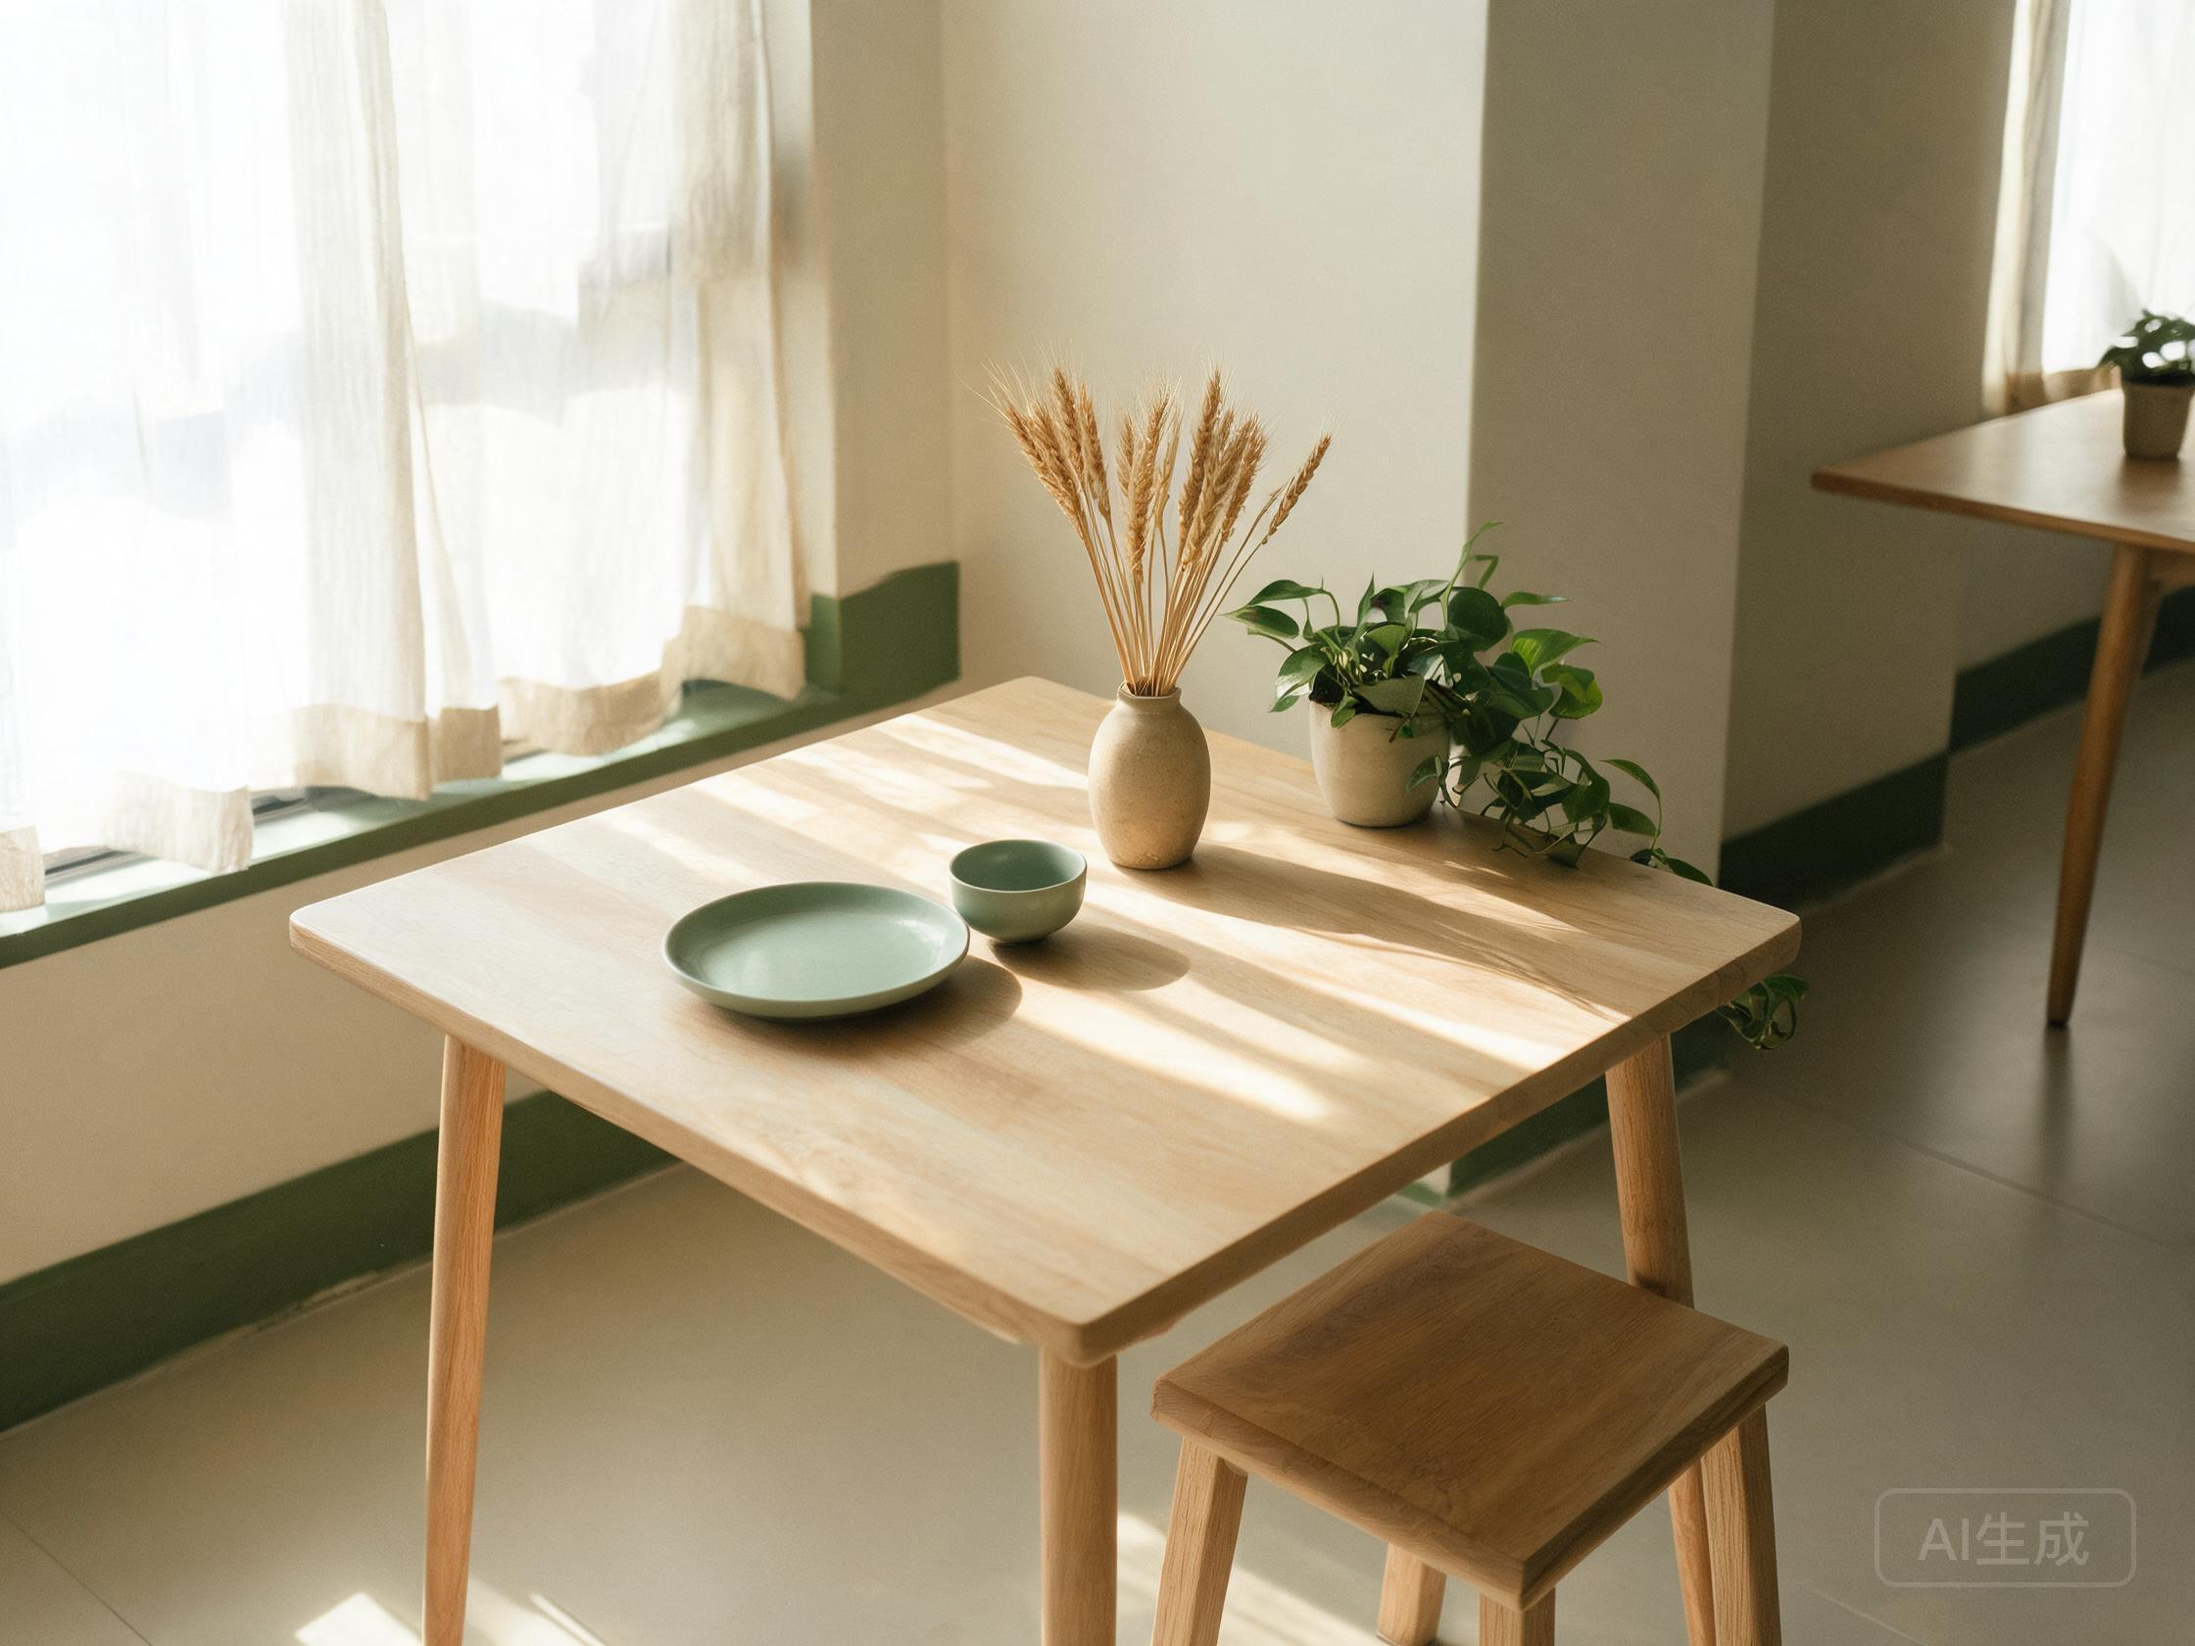
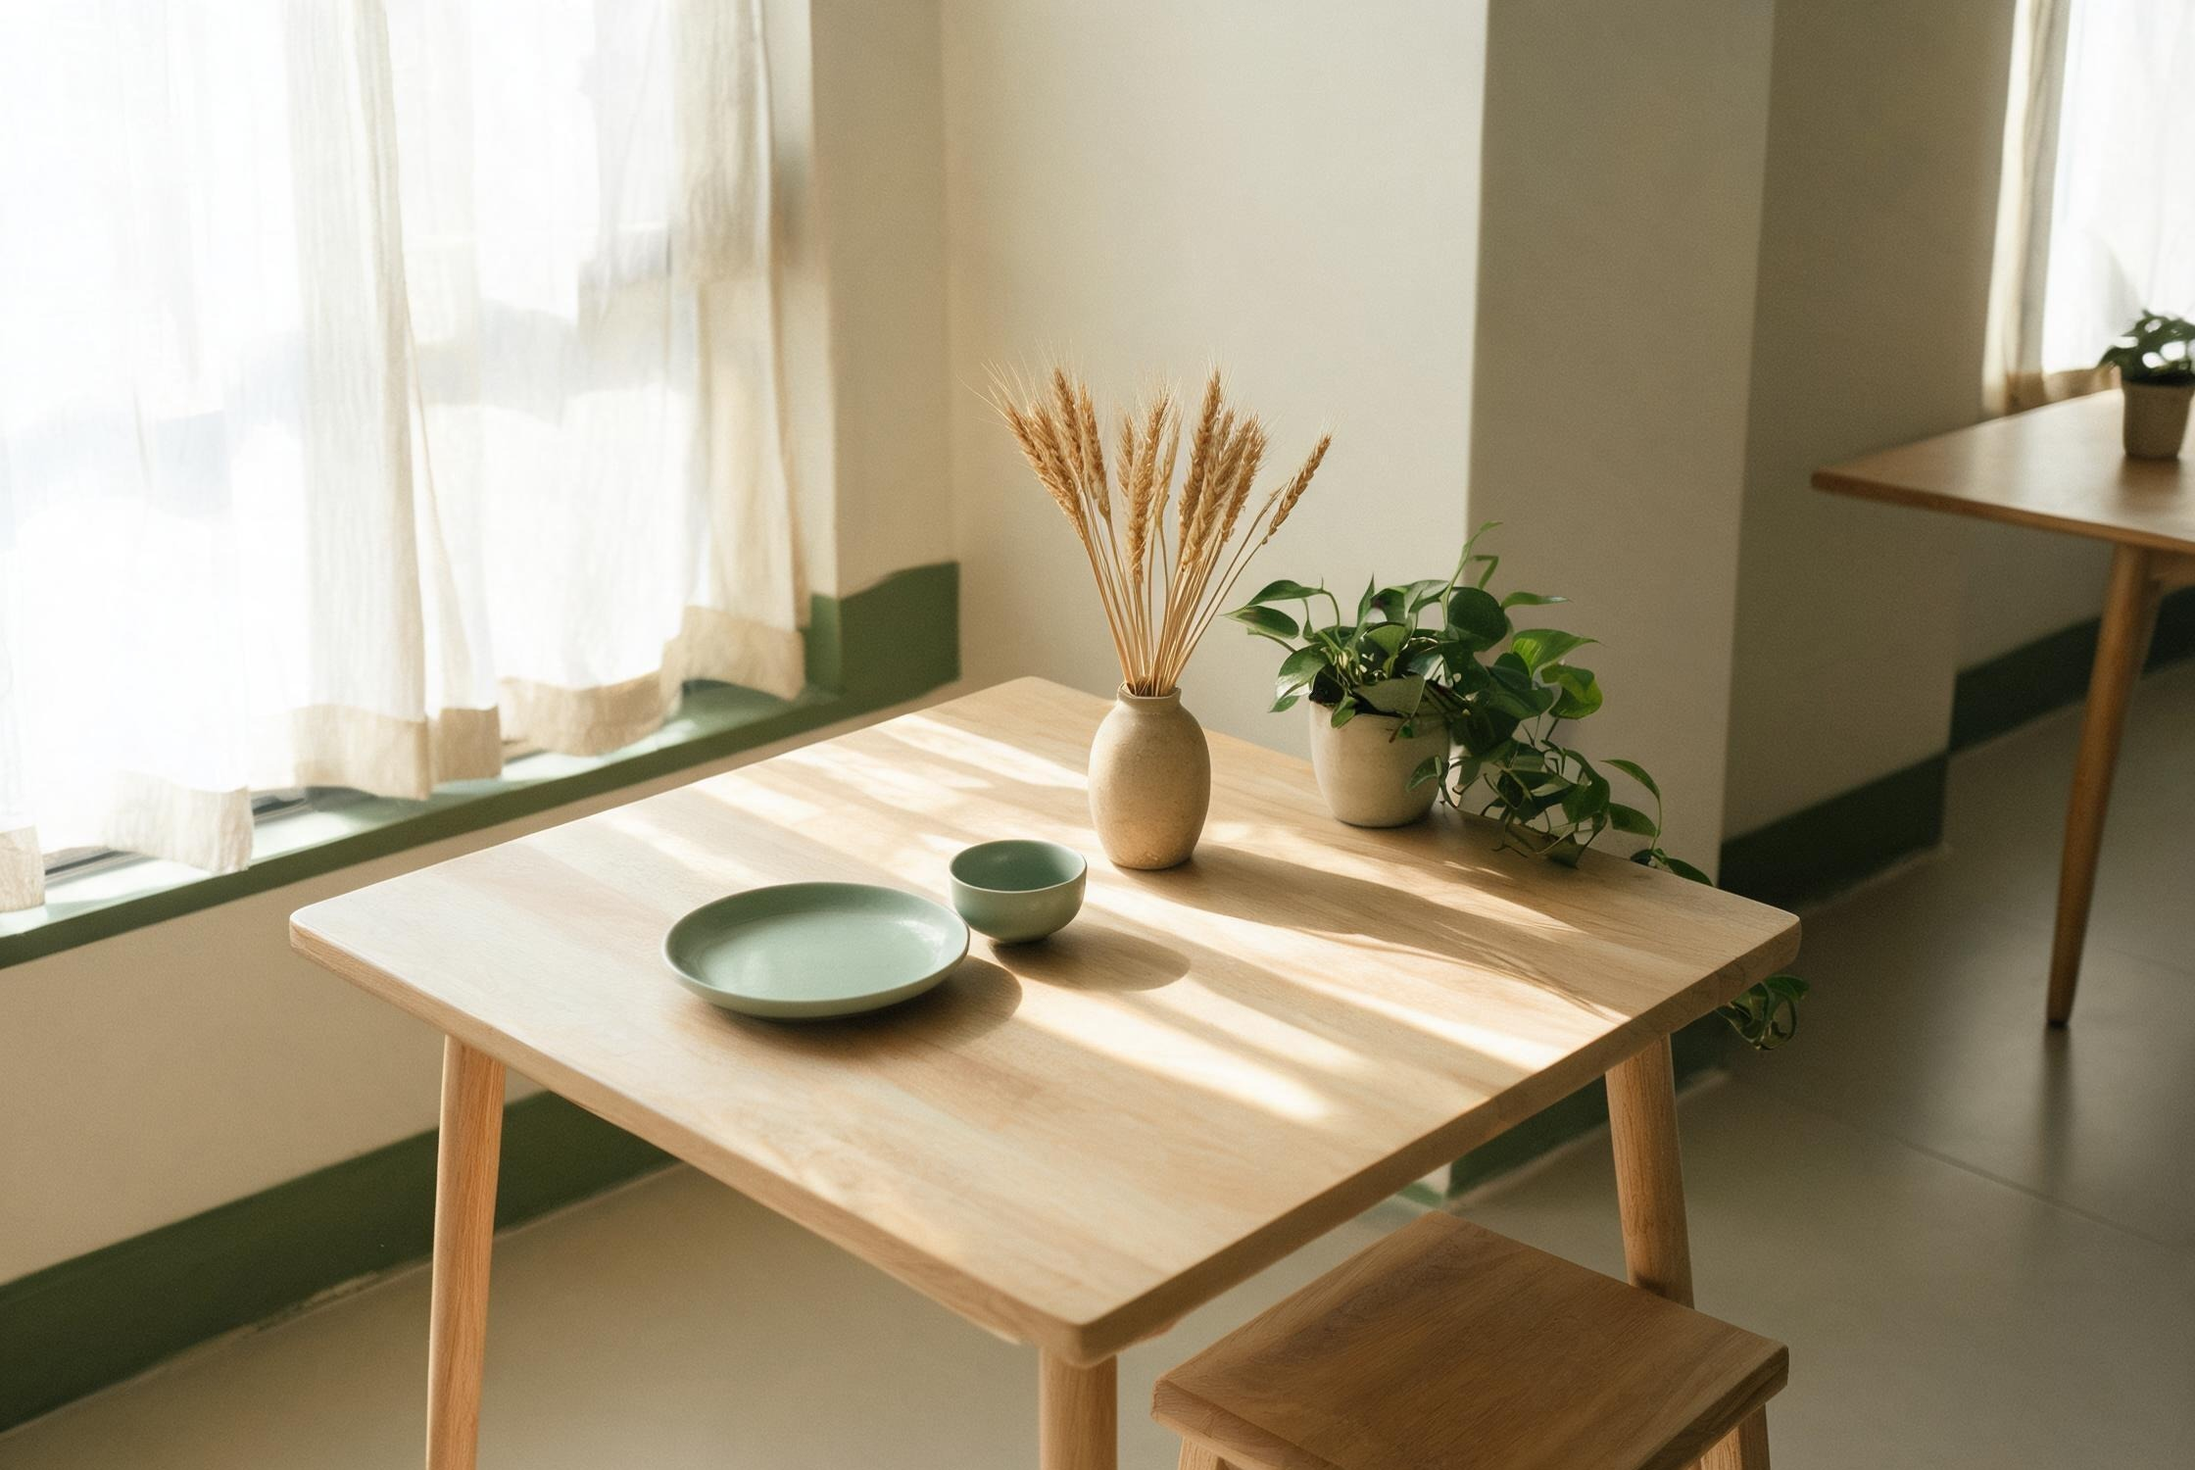
feat: update workspace

diff --git a/src/app/page.tsx b/src/app/page.tsx
@@ -348,67 +348,81 @@ export default function HomePage() {
           </div>
 
           <div className="mt-6 grid gap-5 md:grid-cols-2">
-            <article className="flex flex-col rounded-2xl border border-accent-200/70 bg-rice-50 p-6 shadow-paper sm:p-7">
-              <div className="flex items-center justify-between">
-                <span className="text-[10px] tracking-[0.26em] text-accent-600">
-                  CUSTOMER F · 顾客 F
-                </span>
-                <Quote className="h-4 w-4 text-accent-300" aria-hidden="true" />
+            <article className="flex flex-col overflow-hidden rounded-2xl border border-accent-200/70 bg-rice-50 shadow-paper">
+              <img
+                src="/images/heye-voices-f.jpg"
+                alt="禾也店内靠窗的木桌、豆绿餐盘、麦穗与绿植，午后阳光落在桌面上"
+                className="h-44 w-full object-cover sm:h-52"
+              />
+              <div className="flex flex-1 flex-col p-6 sm:p-7">
+                <div className="flex items-center justify-between">
+                  <span className="text-[10px] tracking-[0.26em] text-accent-600">
+                    CUSTOMER F · 顾客 F
+                  </span>
+                  <Quote className="h-4 w-4 text-accent-300" aria-hidden="true" />
+                </div>
+                <h3 className="mt-3 font-serif-cn text-xl leading-snug text-primary-900 sm:text-2xl">
+                  “吃了你们的饺子，
+                  <br />
+                  我再也不自己包了。”
+                </h3>
+                <div className="mt-4 space-y-3 text-[14px] leading-[1.95] text-stone-600">
+                  <p>
+                    顾客 F 来到店里，点了经典混合口味的水饺，赞不绝口。
+                    她说自己平时特别会包饺子，可吃过我们的饺子之后，
+                    再也不打算自己做了。
+                  </p>
+                  <p>
+                    她喜欢店里的陈设与氛围，看到连洗手间都打扫得干干净净，
+                    也欣赏我们对美的这份追求。
+                  </p>
+                  <p>
+                    她分享说，以前一直处在生存的阶段，不知道为什么会那么忙碌，
+                    像一只在滚轮里奔跑的老鼠。而吃我们的饺子，
+                    能感觉到每一个口味都那么用心。
+                  </p>
+                </div>
+                <p className="mt-auto border-l-2 border-accent-300 pl-4 pt-4 font-serif-cn text-[15px] leading-[1.9] text-stone-700">
+                  她说，在这里品尝到了爱的滋味，油然而生感恩与幸福。
+                </p>
               </div>
-              <h3 className="mt-3 font-serif-cn text-xl leading-snug text-primary-900 sm:text-2xl">
-                “吃了你们的饺子，
-                <br />
-                我再也不自己包了。”
-              </h3>
-              <div className="mt-4 space-y-3 text-[14px] leading-[1.95] text-stone-600">
-                <p>
-                  顾客 F 来到店里，点了经典混合口味的水饺，赞不绝口。
-                  她说自己平时特别会包饺子，可吃过我们的饺子之后，
-                  再也不打算自己做了。
-                </p>
-                <p>
-                  她喜欢店里的陈设与氛围，看到连洗手间都打扫得干干净净，
-                  也欣赏我们对美的这份追求。
-                </p>
-                <p>
-                  她分享说，以前一直处在生存的阶段，不知道为什么会那么忙碌，
-                  像一只在滚轮里奔跑的老鼠。而吃我们的饺子，
-                  能感觉到每一个口味都那么用心。
-                </p>
-              </div>
-              <p className="mt-auto border-l-2 border-accent-300 pl-4 pt-4 font-serif-cn text-[15px] leading-[1.9] text-stone-700">
-                她说，在这里品尝到了爱的滋味，油然而生感恩与幸福。
-              </p>
             </article>
 
-            <article className="flex flex-col rounded-2xl border border-primary-200/80 bg-primary-50/60 p-6 shadow-paper sm:p-7">
-              <div className="flex items-center justify-between">
-                <span className="text-[10px] tracking-[0.26em] text-primary-700">
-                  CUSTOMER M · 顾客 M
-                </span>
-                <Quote className="h-4 w-4 text-primary-300" aria-hidden="true" />
+            <article className="flex flex-col overflow-hidden rounded-2xl border border-primary-200/80 bg-primary-50/60 shadow-paper">
+              <img
+                src="/images/heye-voices-m.jpg"
+                alt="店员把一碗热气腾腾的素饺递到顾客手中，两人相视而笑"
+                className="h-44 w-full object-cover object-[center_35%] sm:h-52"
+              />
+              <div className="flex flex-1 flex-col p-6 sm:p-7">
+                <div className="flex items-center justify-between">
+                  <span className="text-[10px] tracking-[0.26em] text-primary-700">
+                    CUSTOMER M · 顾客 M
+                  </span>
+                  <Quote className="h-4 w-4 text-primary-300" aria-hidden="true" />
+                </div>
+                <h3 className="mt-3 font-serif-cn text-xl leading-snug text-primary-900 sm:text-2xl">
+                  “因为这里，
+                  <br />
+                  不止有饺子。”
+                </h3>
+                <div className="mt-4 space-y-3 text-[14px] leading-[1.95] text-stone-600">
+                  <p>
+                    顾客 M 经常来店里用餐。她问：为什么总觉得店里的饺子更好吃？
+                    店员回答：因为这里不止有饺子。
+                  </p>
+                  <p>
+                    她很开心用餐时能和店里的服务人员聊上几句，
+                    在一餐一饭的互动里，感受到积极、热情的能量。
+                  </p>
+                  <p>
+                    有时只是几句家常，一顿饭就变得轻松起来。
+                  </p>
+                </div>
+                <p className="mt-auto border-l-2 border-primary-300 pl-4 pt-4 font-serif-cn text-[15px] leading-[1.9] text-stone-700">
+                  一餐饭的温度，一半在饺子里，一半在人身上。
+                </p>
               </div>
-              <h3 className="mt-3 font-serif-cn text-xl leading-snug text-primary-900 sm:text-2xl">
-                “因为这里，
-                <br />
-                不止有饺子。”
-              </h3>
-              <div className="mt-4 space-y-3 text-[14px] leading-[1.95] text-stone-600">
-                <p>
-                  顾客 M 经常来店里用餐。她问：为什么总觉得店里的饺子更好吃？
-                  店员回答：因为这里不止有饺子。
-                </p>
-                <p>
-                  她很开心用餐时能和店里的服务人员聊上几句，
-                  在一餐一饭的互动里，感受到积极、热情的能量。
-                </p>
-                <p>
-                  有时只是几句家常，一顿饭就变得轻松起来。
-                </p>
-              </div>
-              <p className="mt-auto border-l-2 border-primary-300 pl-4 pt-4 font-serif-cn text-[15px] leading-[1.9] text-stone-700">
-                一餐饭的温度，一半在饺子里，一半在人身上。
-              </p>
             </article>
           </div>
         </div>
